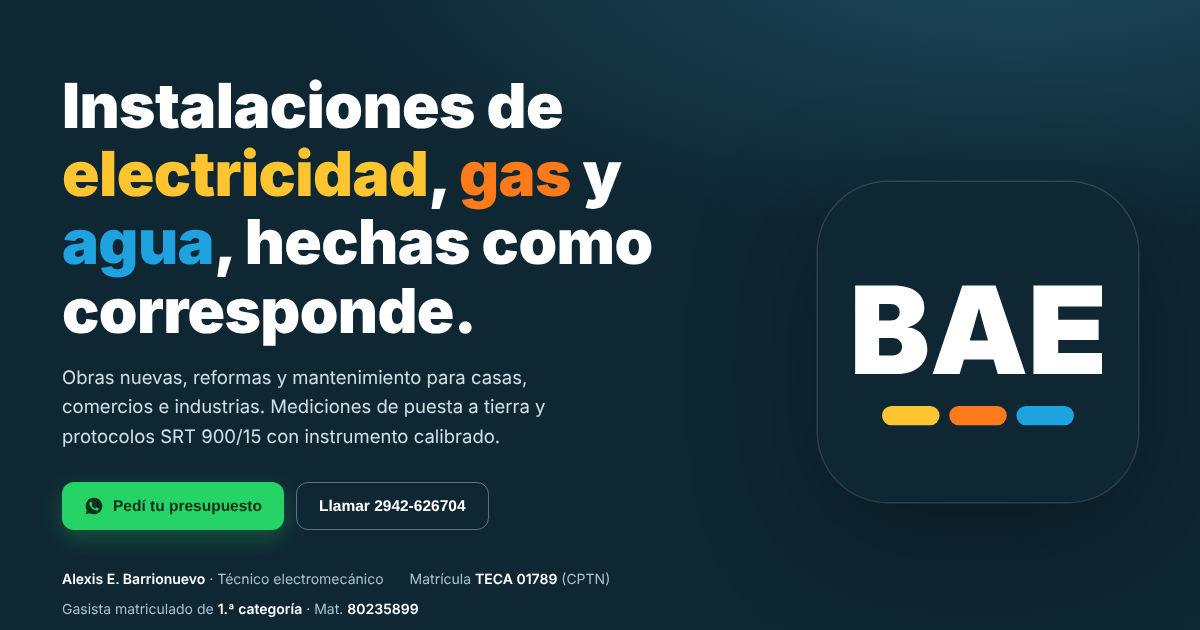
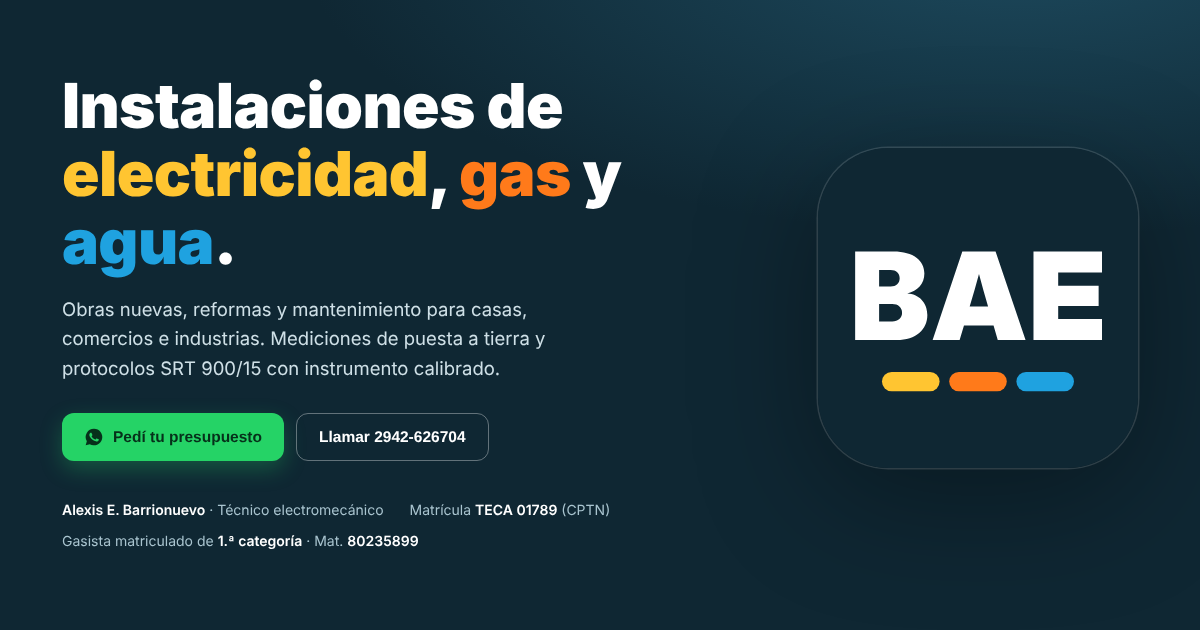
Add files via upload

diff --git a/index.html b/index.html
@@ -77,11 +77,11 @@ section{padding:84px 0}
 .steps div:before{content:"0" counter(s);font:900 15px Archivo,sans-serif;color:var(--mut);letter-spacing:.1em}
 .steps h3{font-size:19px;font-weight:800;margin:8px 0 6px}
 .steps p{margin:0;color:var(--mut);font-size:15px}
-.contact{background:var(--navy);color:#fff;border-radius:26px;padding:52px;display:grid;grid-template-columns:1.1fr .9fr;gap:36px;align-items:center}
+.contact{background:var(--navy);color:#fff;border-radius:26px;padding:52px;display:grid;grid-template-columns:minmax(0,1.1fr) minmax(0,.9fr);gap:36px;align-items:center}
 .contact h2{font-size:clamp(28px,3.6vw,40px);font-weight:900;margin-bottom:12px}
 .contact p{color:#cfe0e7;margin:0 0 26px}
 .lines{display:grid;gap:12px}
-.lines a,.lines span{display:flex;gap:14px;align-items:center;text-decoration:none;background:var(--navy2);border-radius:14px;padding:16px 18px;font-weight:500}
+.lines>*{min-width:0}.lines>a>span,.lines>span>span{display:block!important;min-width:0;overflow-wrap:break-word;font-size:15px}.lines small{display:block}.lines a,.lines span{display:flex;gap:14px;align-items:center;text-decoration:none;background:var(--navy2);border-radius:14px;padding:16px 18px;font-weight:500}
 .lines svg{width:22px;height:22px;flex:none;color:#9fc3d3}
 .lines small{display:block;color:#9fc3d3;font-size:12.5px;font-weight:400}
 .zonas{display:flex;flex-wrap:wrap;gap:10px}.zonas span{background:#fff;border:1px solid var(--line);border-radius:999px;padding:10px 18px;font-weight:600;font-size:15.5px}.zonas .base{background:var(--navy);color:#fff;border-color:var(--navy)}.zonas small{font-weight:500;color:#9fc3d3;margin-left:6px;font-size:12.5px;text-transform:uppercase;letter-spacing:.08em}
@@ -94,7 +94,7 @@ footer a{text-decoration:none}
 @media (max-width:900px){
   nav a:not(.btn){display:none}
   .hero{padding:56px 0 64px}
-  .hero .wrap,.contact{grid-template-columns:1fr}
+  .hero .wrap{grid-template-columns:1fr}.contact{grid-template-columns:minmax(0,1fr)}
   .hero .badge{display:none}
   .grid{grid-template-columns:1fr 1fr}
   .steps{grid-template-columns:1fr 1fr}
@@ -103,6 +103,9 @@ footer a{text-decoration:none}
 }
 @media (max-width:560px){
   .grid,.why,.steps{grid-template-columns:1fr}
+  .contact{padding:28px 16px;border-radius:20px}
+  .lines a,.lines>span{padding:14px 14px;gap:12px}
+  .lines>a>span,.lines>span>span{font-size:14.5px!important}
   section{padding:60px 0}
   nav .btn{display:none}
 }
@@ -118,7 +121,7 @@ footer a{text-decoration:none}
 <main>
 <div class="hero"><div class="wrap">
   <div>
-    <h1 style="margin-top:0">Instalaciones de <em class="e">electricidad</em>, <em class="g">gas</em> y <em class="a">agua</em>, hechas como corresponde.</h1>
+    <h1 style="margin-top:0">Instalaciones de <em class="e">electricidad</em>, <em class="g">gas</em> y <em class="a">agua</em>.</h1>
     <p>Obras nuevas, reformas y mantenimiento para casas, comercios e industrias. Mediciones de puesta a tierra y protocolos SRT 900/15 con instrumento calibrado.</p>
     <div class="cta">
       <a class="btn wa" href="https://wa.me/5492942626704?text=Hola%20Alexis%2C%20te%20escribo%20desde%20la%20web.%20Quisiera%20consultar%20por%20un%20trabajo." target="_blank" rel="noopener"><svg viewBox="0 0 24 24" fill="currentColor"><path d="M12 2a10 10 0 0 0-8.6 15.1L2 22l5-1.3A10 10 0 1 0 12 2zm5.3 14.1c-.2.6-1.3 1.2-1.8 1.2-.5.1-1 .1-3.3-.8-2.8-1.1-4.5-4-4.7-4.2-.1-.2-1.1-1.5-1.1-2.8s.7-2 1-2.3c.2-.3.5-.3.7-.3h.5c.2 0 .4 0 .6.5l.8 2c.1.2.1.4 0 .5l-.3.5-.4.4c-.1.1-.3.3-.1.6.2.3.8 1.3 1.7 2.1 1.1 1 2.1 1.3 2.4 1.5.3.1.5.1.6-.1l.9-1c.2-.3.4-.2.6-.1l1.9.9c.3.1.5.2.5.3.1.2.1.7-.1 1.1z"/></svg>Pedí tu presupuesto</a>
@@ -180,7 +183,7 @@ footer a{text-decoration:none}
       <a class="btn wa" href="https://wa.me/5492942626704?text=Hola%20Alexis%2C%20te%20escribo%20desde%20la%20web.%20Quisiera%20consultar%20por%20un%20trabajo." target="_blank" rel="noopener">Escribir por WhatsApp</a></div>
     <div class="lines">
       <a href="tel:+542942626704"><svg viewBox="0 0 24 24" fill="none" stroke="currentColor" stroke-width="2" stroke-linecap="round" stroke-linejoin="round"><path d="M22 16.9v3a2 2 0 0 1-2.2 2 19.8 19.8 0 0 1-8.6-3.1 19.5 19.5 0 0 1-6-6A19.8 19.8 0 0 1 2.1 4.2 2 2 0 0 1 4.1 2h3a2 2 0 0 1 2 1.7c.1 1 .4 1.9.7 2.8a2 2 0 0 1-.5 2.1L8 9.9a16 16 0 0 0 6 6l1.3-1.3a2 2 0 0 1 2.1-.4c.9.3 1.8.6 2.8.7a2 2 0 0 1 1.7 2z"/></svg><span><small>Teléfono / WhatsApp</small>2942-626704</span></a>
-      <a href="mailto:contacto@baeinstalaciones.com.ar"><svg viewBox="0 0 24 24" fill="none" stroke="currentColor" stroke-width="2" stroke-linecap="round" stroke-linejoin="round"><rect x="2" y="4" width="20" height="16" rx="2"/><path d="m22 7-10 6L2 7"/></svg><span><small>Email</small>contacto@baeinstalaciones.com.ar</span></a>
+      <a href="mailto:contacto@baeinstalaciones.com.ar"><svg viewBox="0 0 24 24" fill="none" stroke="currentColor" stroke-width="2" stroke-linecap="round" stroke-linejoin="round"><rect x="2" y="4" width="20" height="16" rx="2"/><path d="m22 7-10 6L2 7"/></svg><span><small>Email</small>contacto@<wbr>baeinstalaciones.com.ar</span></a>
       <span><svg viewBox="0 0 24 24" fill="none" stroke="currentColor" stroke-width="2" stroke-linecap="round" stroke-linejoin="round"><path d="M12 22s7-6.1 7-12a7 7 0 0 0-14 0c0 5.9 7 12 7 12z"/><circle cx="12" cy="10" r="2.5"/></svg><span><small>Base</small>Zapala, Neuquén</span></span>
     </div>
   </div>
